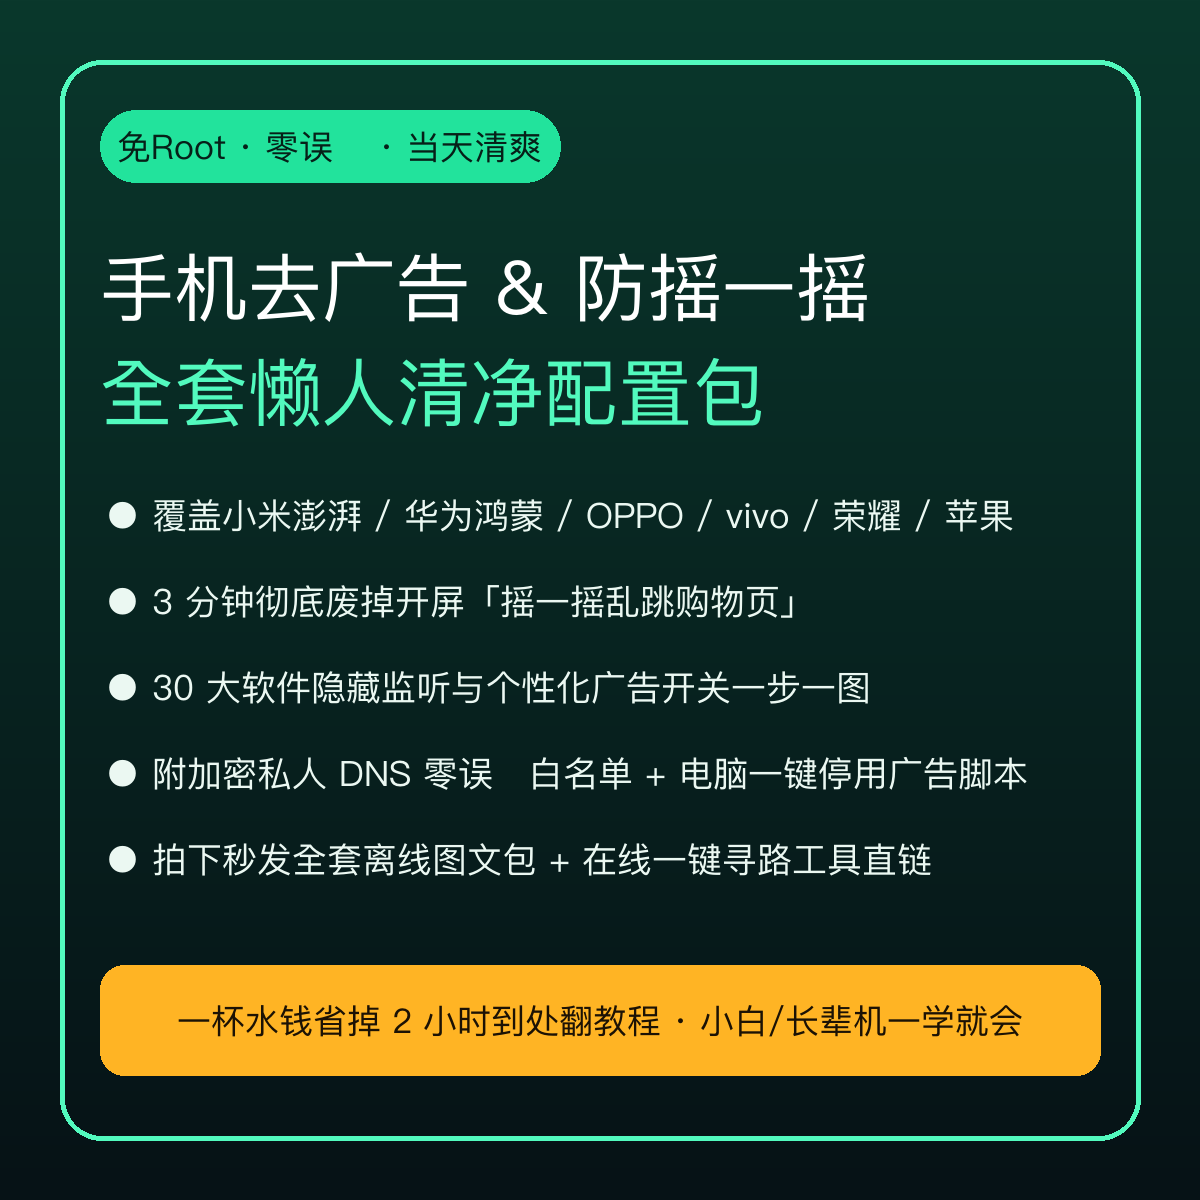
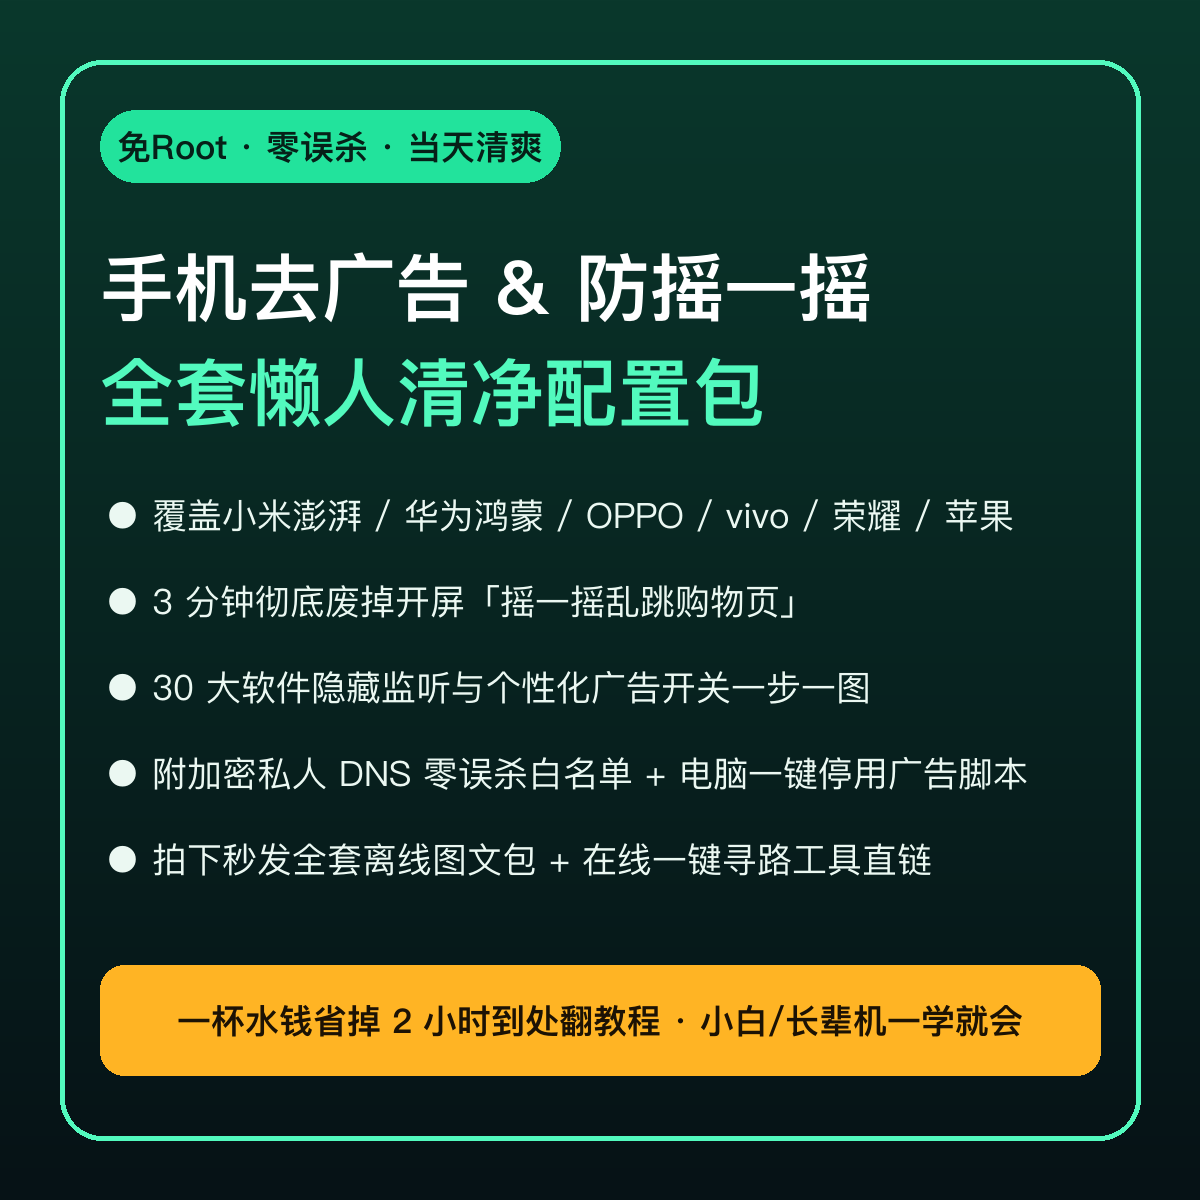
fix: use PingFang SC Semibold index 11 for full Simplified Chinese glyphs

diff --git a/Scripts/generate_media_pack.py b/Scripts/generate_media_pack.py
@@ -30,10 +30,12 @@ FONT_CANDIDATES = [
 
 
 def load_font(size: int, index: int = 0) -> ImageFont.FreeTypeFont:
+    # In PingFang.ttc: index 3 = PingFang SC Regular, index 11 = PingFang SC Semibold
+    sc_index = 11 if index >= 1 else 3
     for fp in FONT_CANDIDATES:
         if Path(fp).exists():
             try:
-                return ImageFont.truetype(fp, size, index=index)
+                return ImageFont.truetype(fp, size, index=sc_index)
             except Exception:
                 try:
                     return ImageFont.truetype(fp, size, index=0)
